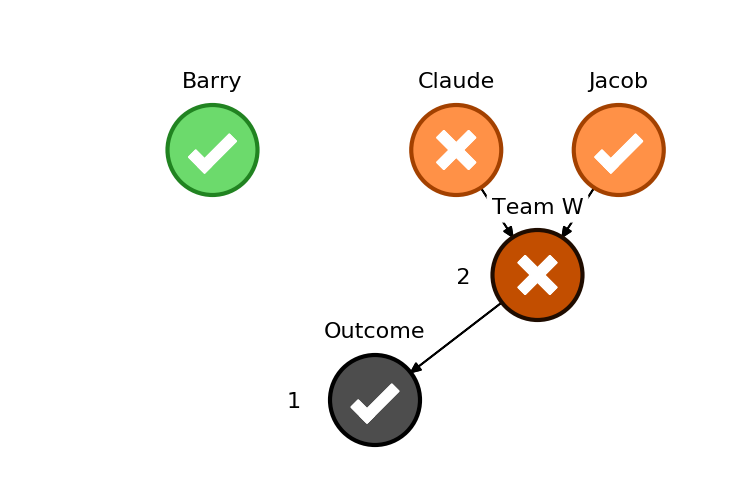
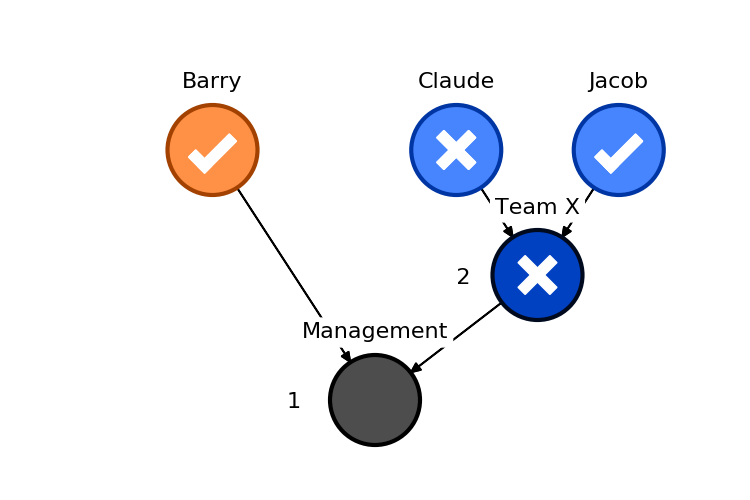
slider edits

diff --git a/src/draw.py b/src/draw.py
@@ -108,7 +108,7 @@ def draw_hierarchy(hierarchy, ax, right, left, top, bottom, size=SIZE, **attr):
     label_node(hierarchy, ax, x, y, size, hierarchy.outcome(), None)
 
     label_threshold(hierarchy, ax, x, y, size, hierarchy.outcome(), None)
-    
+
     # node
     if 'arrow' in attr:
         __draw_hierarchy(hierarchy, ax, left, height-bottom, length/len(hierarchy.predecessors(hierarchy.outcome())), size, hierarchy.outcome(), (x, y), 0, COLOR, arrow=attr['arrow'])
@@ -166,15 +166,11 @@ def __draw_hierarchy(hierarchy, ax, left, height, length, size, node, pcoor, v, 
                 dy += size
 
             if 'arrow' in attr:
-                if attr['arrow'] == '0n':
-                    if hierarchy.predecessors(node)[pred] == '0n':
-                        draw_arrow(ax, x, y, dx, dy)
-                elif attr['arrow'] == 'team':
-                    if hierarchy.predecessors(node)[pred] != '0n':
-                        draw_arrow(ax, x, y, dx, dy)
+                if hierarchy.predecessors(node)[pred] not in attr['arrow']:
+                    draw_arrow(ax, x, y, dx, dy)
             else: 
                 draw_arrow(ax, x, y, dx, dy)
-            
+
             if hierarchy.predecessors(hierarchy.predecessors(node)[pred]) != []:
                 __draw_hierarchy(hierarchy, ax, left + length*pred, height, length/len(hierarchy.predecessors(hierarchy.predecessors(node)[pred])),
                                     size, hierarchy.predecessors(node)[pred], (x, y), v, color[pred] if type(color) != tuple else color)
@@ -221,15 +217,19 @@ def get_color(hierarchy, color, node, pred):
     if pred == None:
         return 'w'
     else:
-        h = color[0]
-        s = color[1]
+        if 'color' not in hierarchy.node[hierarchy.predecessors(node)[pred]]:
+        
+            h = color[0]
+            s = color[1]
 
-        levels = hierarchy.node[hierarchy.outcome()]['level']
-        lightness = 80/levels
+            levels = hierarchy.node[hierarchy.outcome()]['level']
+            lightness = 80/levels
 
-        l = (levels - hierarchy.node[hierarchy.predecessors(node)[pred]]['level'])*lightness + 12
+            l = (levels - hierarchy.node[hierarchy.predecessors(node)[pred]]['level'])*lightness + 12
+            hierarchy.node[hierarchy.predecessors(node)[pred]]['color'] = hsl_to_rgb(h, s, l)
+            hierarchy.node[hierarchy.predecessors(node)[pred]]['ec'] = hsl_to_rgb(h, s, l-32)
 
-        return (hsl_to_rgb(h, s, l), hsl_to_rgb(h, s, l-32))
+        return (hierarchy.node[hierarchy.predecessors(node)[pred]]['color'], hierarchy.node[hierarchy.predecessors(node)[pred]]['ec'])
 
 '''
 label name of node
@@ -244,7 +244,7 @@ parameters:
 '''
 def label_node(hierarchy, ax, x, y, size, node, pred):
     if pred == None:
-        ax.text(x, y+NAME_H*size, 'Outcome', fontsize=FONTSIZE, weight='medium', bbox=dict(boxstyle='round, pad=0.2', facecolor='w', ec='w', zorder=2), horizontalalignment='center', verticalalignment='center', zorder=2)
+        ax.text(x, y+NAME_H*size, 'Management', fontsize=FONTSIZE, weight='medium', bbox=dict(boxstyle='round, pad=0.2', facecolor='w', ec='w', zorder=2), horizontalalignment='center', verticalalignment='center', zorder=2)
     else:
         # ax.text(x, y, hierarchy.outcome(), size=18, zorder=5)
         if hierarchy.predecessors(hierarchy.predecessors(node)[pred]) == []:
@@ -344,10 +344,11 @@ def draw_outcomes(situation, fig, **attr):
     for node in situation.nodes():
         coord = situation.node[node]['coord']
 
-        if situation.node[node]['value'] == True:
-            positive(situation, ax, node, coord[0], coord[1], size=SIZE)
-        else:
-            negative(situation, ax, node, coord[0], coord[1], size=SIZE)
+        if 'value' in situation.node[node]:
+            if situation.node[node]['value'] == True:
+                positive(situation, ax, node, coord[0], coord[1], size=SIZE)
+            else:
+                negative(situation, ax, node, coord[0], coord[1], size=SIZE)
 
     # fig.savefig('images/situation%d.png' % attr['data']['ID'])
     # fig.savefig('experiment/static/images/instructions/instructions%d.png' % attr['data']['ID'])

diff --git a/src/tutorial.py b/src/tutorial.py
@@ -18,14 +18,11 @@ s['values'] = [['0n', 1], ['1n', 1], ['2n', 0]]
 
 hierarchy = Situation(hierarchy=h, situation=s, comprehension=True, names=['Claude', 'Barry', 'Jacob'])
 
-fig = draw(hierarchy, size=True, fig=(7.5, 5), arrow='0n', file='experiment/static/images/instructions/noteam.png')
-situation = draw_outcomes(hierarchy, fig, arrow='team', file='experiment/static/images/instructions/noteam.png')
-
-fig = draw(hierarchy, size=True, fig=(7.5, 5), arrow='team', file='experiment/static/images/instructions/team.png')
-situation = draw_outcomes(hierarchy, fig, arrow='team', file='experiment/static/images/instructions/team.png')
+fig = draw(hierarchy, size=True, fig=(7.5, 5), arrow=['0g'], file='experiment/static/images/instructions/image4.png')
+situation = draw_outcomes(hierarchy, fig, arrow=['0g'], file='experiment/static/images/instructions/image4.png')
 
 hierarchy.evaluate('0g')
-situation = draw_outcomes(hierarchy, fig, arrow='team', file='experiment/static/images/instructions/noteam.png')
+situation = draw_outcomes(hierarchy, fig, arrow=['0g'], file='experiment/static/images/instructions/image5.png')
 fig = draw(hierarchy, size=True, fig=(7.5, 5), arrow='team', file='experiment/static/images/instructions/team.png')
 
 fig = draw(hierarchy, size=True, fig=(7.5, 5), file='experiment/static/images/instructions/team.png')
@@ -39,9 +36,10 @@ situation = draw_outcomes(hierarchy, fig, file='experiment/static/images/instruc
 hierarchy.remove_node('0g')
 hierarchy.add_edges_from([('1n', 'o'), ('2n', 'o')])
 
-fig = draw(hierarchy, fig=(7.5, 5), arrow=True, file='experiment/static/images/instructions/employees.png')
+fig = draw(hierarchy, fig=(7.5, 5), arrow=[], file='experiment/static/images/instructions/image1.png')
+fig = draw(hierarchy, fig=fig, arrow=[], file='experiment/static/images/instructions/image2.png')
 
-situation = draw_outcomes(hierarchy, fig, arrow=True, file='experiment/static/images/instructions/outcomes.png')
+situation = draw_outcomes(hierarchy, fig, arrow=[], file='experiment/static/images/instructions/image3.png')
 
 
 

diff --git a/src/situation.py b/src/situation.py
@@ -21,13 +21,12 @@ class Situation(Hierarchy):
 				if 'op' in attr:
 					self.assign_thresholds(attr['situation']['thresholds'][attr['op']])
 				else:
-					print 'hi'
 					self.assign_thresholds(attr['situation']['thresholds'])
 
 			if 'names' in attr:
 				self.assign_names(attr['names'])
-		
-		self.evaluate(self.outcome())
+		if 'comprehension' not in attr:
+			self.evaluate(self.outcome())
 
 
 	def outcome(self):
@@ -80,7 +79,7 @@ class Situation(Hierarchy):
 
 		for node, threshold in thresholds:
 			self.node[node]['threshold'] = threshold
-			print 'node', node, 'threshold', self.node[node]['threshold']
+
 		return None
 
 	'''
